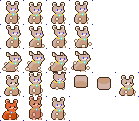
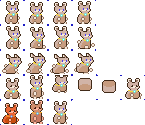
Working pika idle and right movement

diff --git a/minimalist-game-framework-core/Game/Game.cs b/minimalist-game-framework-core/Game/Game.cs
@@ -6,20 +6,15 @@ class Game
 {
     public static readonly string Title = "Piper the Pika";
     public static readonly Vector2 Resolution = new Vector2(320, 224);
-    Texture piperTexture = Engine.LoadTexture("pika-with-dots");
-
-    // animation constants
-    static readonly float Framerate = 30;
-    static readonly float WalkSpeed = 50;
+    readonly Texture piperTexture = Engine.LoadTexture("pika-spritemap-no-dots.png");
 
     // sprites
     Sprite piper;
     float piperFrameIndex;
-    bool piperFaceLeft = false;
     ArrayList sprites = new ArrayList();
 
     Scoreboard sb;
-    float speed = 5;
+    float speed = 2;
 
     public Game()
     {
@@ -27,42 +22,15 @@ class Game
         sb = new Scoreboard();
 
         // create piper sprite
-        Vector2[] piperHB = new Vector2[1];
-        piperHB[0] = new Vector2(24, 24);
-        piper = new Sprite(Resolution / 2, piperTexture, piperHB);
+        piper = new Sprite(Resolution / 2, piperTexture);
+        piperFrameIndex = 0;
         sprites.Add(piper);
     }
 
     public void Update()
     {
-        // player input
-        if (Engine.GetKeyHeld(Key.A))
-        {
-            piper.setState(1);
-            piperFaceLeft = true;
-            piper.move(new Vector2(-speed, 0));
-        }
-        else if (Engine.GetKeyHeld(Key.D))
-        {
-            piper.setState(1);
-            piperFaceLeft = false;
-            piper.move(new Vector2(speed, 0));
-        }
-        else
-        {
-            piper.setState(0);
-        }
-
-        piperFrameIndex = (piperFrameIndex + Engine.TimeDelta * Framerate) % 4.0f;
-        Vector2 piperFrame = new Vector2((int)piperFrameIndex * 24, piper.getState() * 24);
-        Bounds2 piperFrameBounds = new Bounds2(piperFrame, piperFrame + new Vector2(24, 24));
-        
-        // animate each sprite onscreen
-        //foreach (Sprite s in sprites)
-        //{
-            //Animator.draw(s);
-        //}
-
+        Engine.DrawRectSolid(new Bounds2(new Vector2(0, 0), Resolution), Color.White);
+        piperFrameIndex = Animator.animatePiper(piper, speed, piperFrameIndex);
         sb.updateScoreboard();
     }
 }

diff --git a/minimalist-game-framework-core/Game/Sprite.cs b/minimalist-game-framework-core/Game/Sprite.cs
@@ -8,18 +8,35 @@ class Sprite {
     private Texture spritemap;
     private protected Vector2[] hitboxes;
     private protected int state;
+    private Boolean spriteFaceLeft;
     private float[] hitboxCoord;
     
     
+    public Sprite(Vector2 loc, Texture spritemap)
+    {
+        this.loc = loc;
+        this.spritemap = spritemap;
+        hitboxes = new Vector2[1];
+        spriteFaceLeft = false;
+        state = 0;
+        hitboxCoord = new float[hitboxes.Length];
+        hitboxCoord[0] = 0;
+        for(int i = 0; i < hitboxes.Length - 1; i++)
+        {
+            hitboxCoord[i + 1] = hitboxCoord[i] + hitboxes[i].X;
+        }
+    }
+
     public Sprite(Vector2 loc, Texture spritemap, Vector2[] hitboxes)
     {
         this.loc = loc;
         this.spritemap = spritemap;
         this.hitboxes = hitboxes;
+        spriteFaceLeft = false;
         state = 0;
         hitboxCoord = new float[hitboxes.Length];
         hitboxCoord[0] = 0;
-        for(int i = 0; i < hitboxes.Length - 1; i++)
+        for (int i = 0; i < hitboxes.Length - 1; i++)
         {
             hitboxCoord[i + 1] = hitboxCoord[i] + hitboxes[i].X;
         }
@@ -44,15 +61,21 @@ class Sprite {
     {
         loc += v;
     }
+
+    public void turn()
+    {
+        spriteFaceLeft = !spriteFaceLeft;
+    }
     
     public void draw()
     {
         Engine.DrawTexture(spritemap, loc - hitboxes[state] / 2, source: getTextureSource());
     }
 
-    public void draw(Bounds2 bounds, Vector2 pos)
+    public void draw(Bounds2 bounds)
     {
-        Engine.DrawTexture(spritemap, pos, source: bounds);
+        TextureMirror mirror = spriteFaceLeft ? TextureMirror.Horizontal : TextureMirror.None;
+        Engine.DrawTexture(spritemap, loc, source: bounds, mirror: mirror);
     }
 
     public void setState(int state)

diff --git a/minimalist-game-framework-core/Game/Animator.cs b/minimalist-game-framework-core/Game/Animator.cs
@@ -9,8 +9,31 @@ using System.Text;
  */
 internal static class Animator
 {
-    public static void draw(Sprite s)
+    // animation constants
+    static readonly float Framerate = 5;
+
+    public static float animatePiper(Sprite piper, float speed, float frameIndex)
     {
-        
+        // player input
+        if (Engine.GetKeyHeld(Key.A))
+        {
+            piper.setState(1);
+            piper.move(new Vector2(-speed, 0));
+        }
+        else if (Engine.GetKeyHeld(Key.D))
+        {
+            piper.setState(1);
+            piper.move(new Vector2(speed, 0));
+        }
+        else
+        {
+            piper.setState(0);
+        }
+
+        frameIndex = (frameIndex + Engine.TimeDelta * Framerate) % 4.0f;
+        Vector2 piperFrame = new Vector2((int)frameIndex * 24, piper.getState() * 24);
+        Bounds2 piperFrameBounds = new Bounds2(piperFrame, new Vector2(24, 24));
+        piper.draw(piperFrameBounds);
+        return frameIndex;
     }
 }
